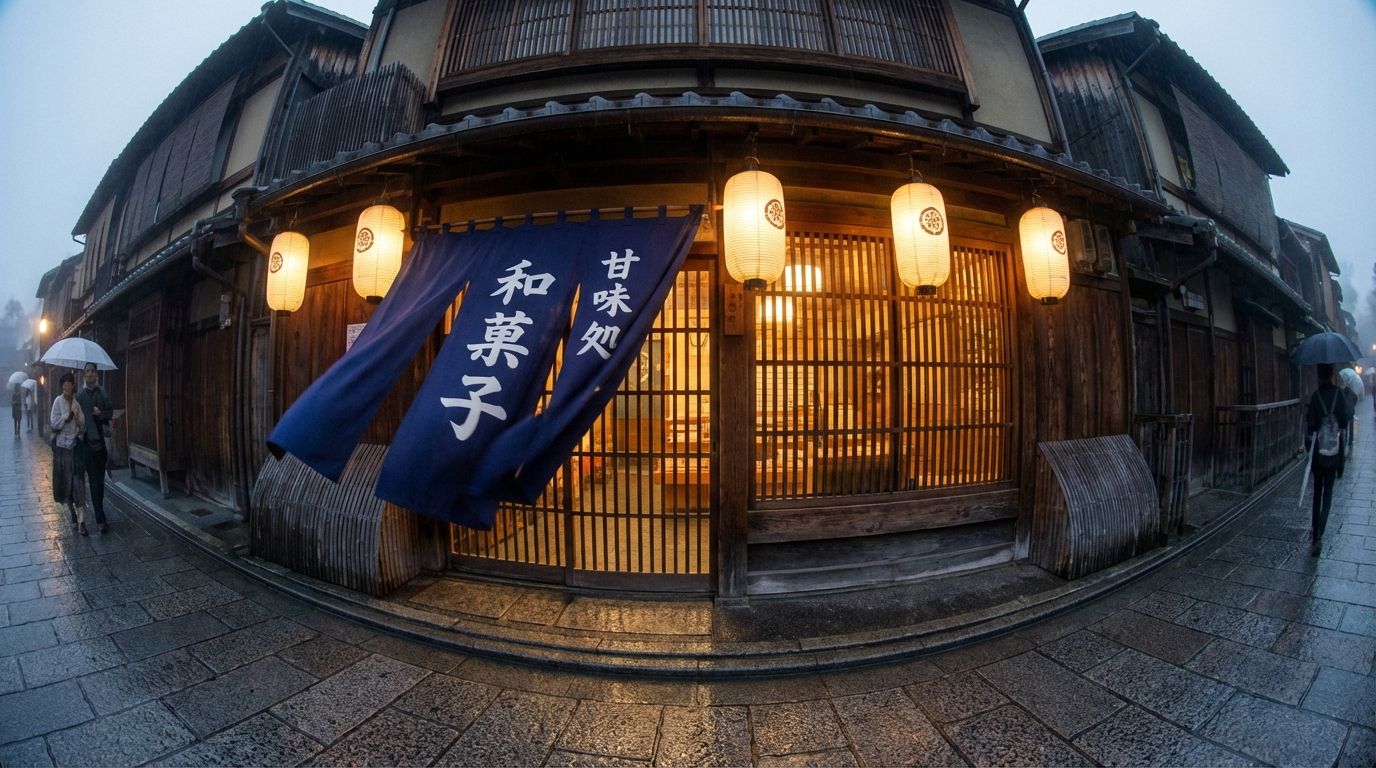
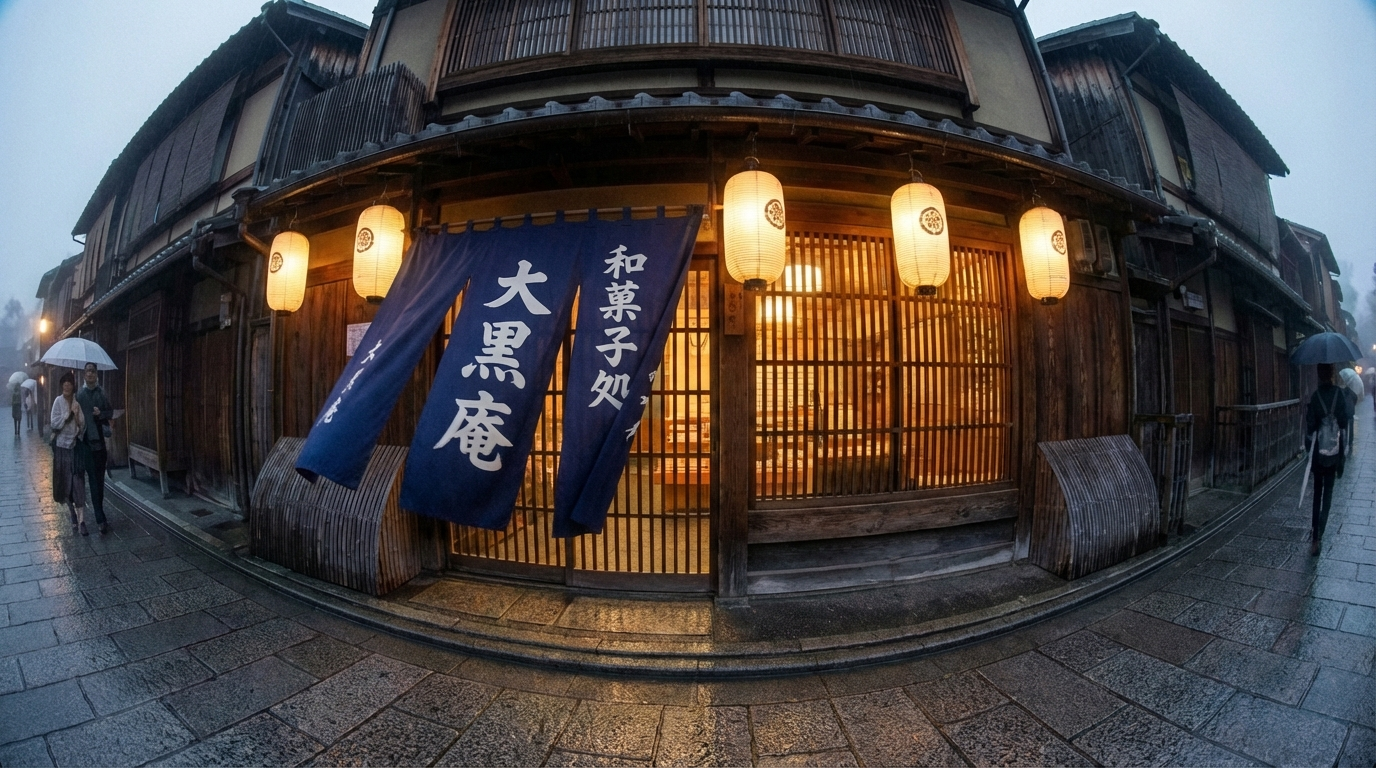
Update hero image with corrected text and add cache busting

diff --git a/index.html b/index.html
@@ -84,7 +84,7 @@
     <main>
         <section class="hero" id="top">
             <div class="hero-image">
-                <img src="images/hero_new.jpeg" alt="大黒庵 新・店頭（夕暮れ）">
+                <img src="images/hero_new.jpeg?v=2" alt="大黒庵 新・店頭（夕暮れ）">
             </div>
             <div class="hero-text fade-in">
                 <p class="vertical-text catchphrase">街の職人の粋を、<br>AIで可視化する。</p>
